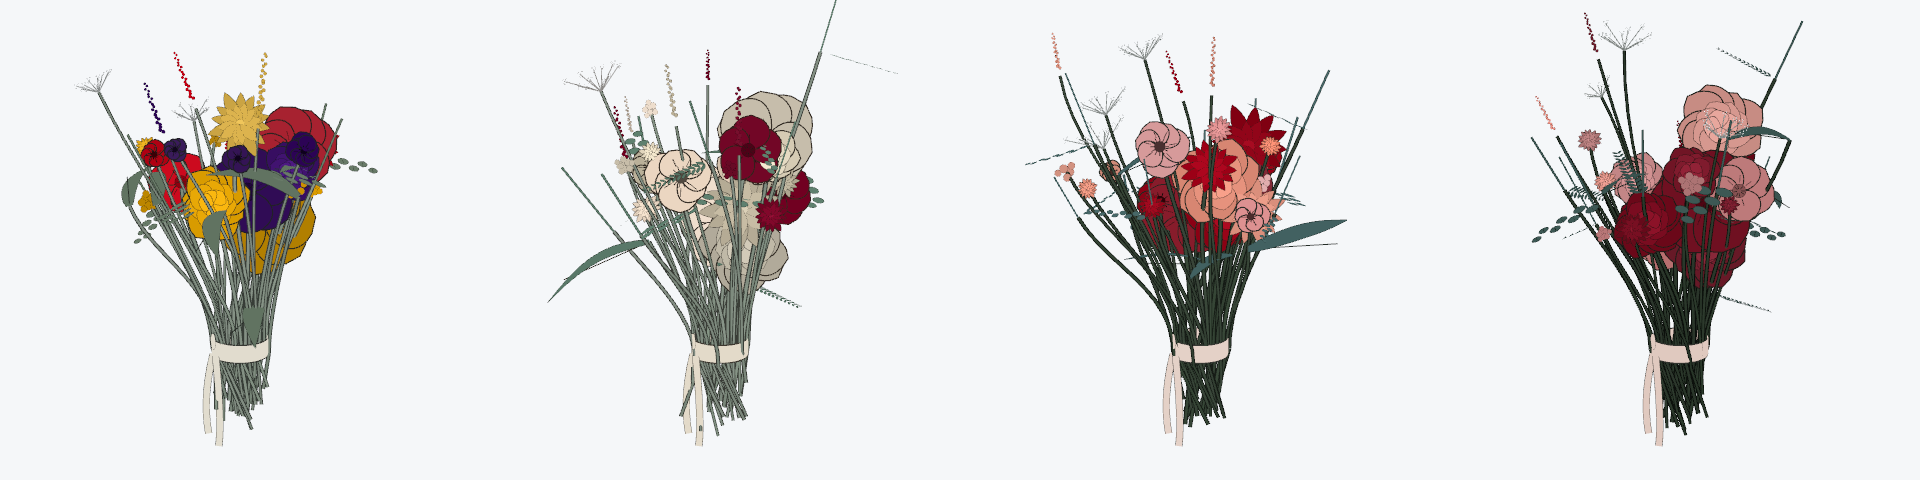
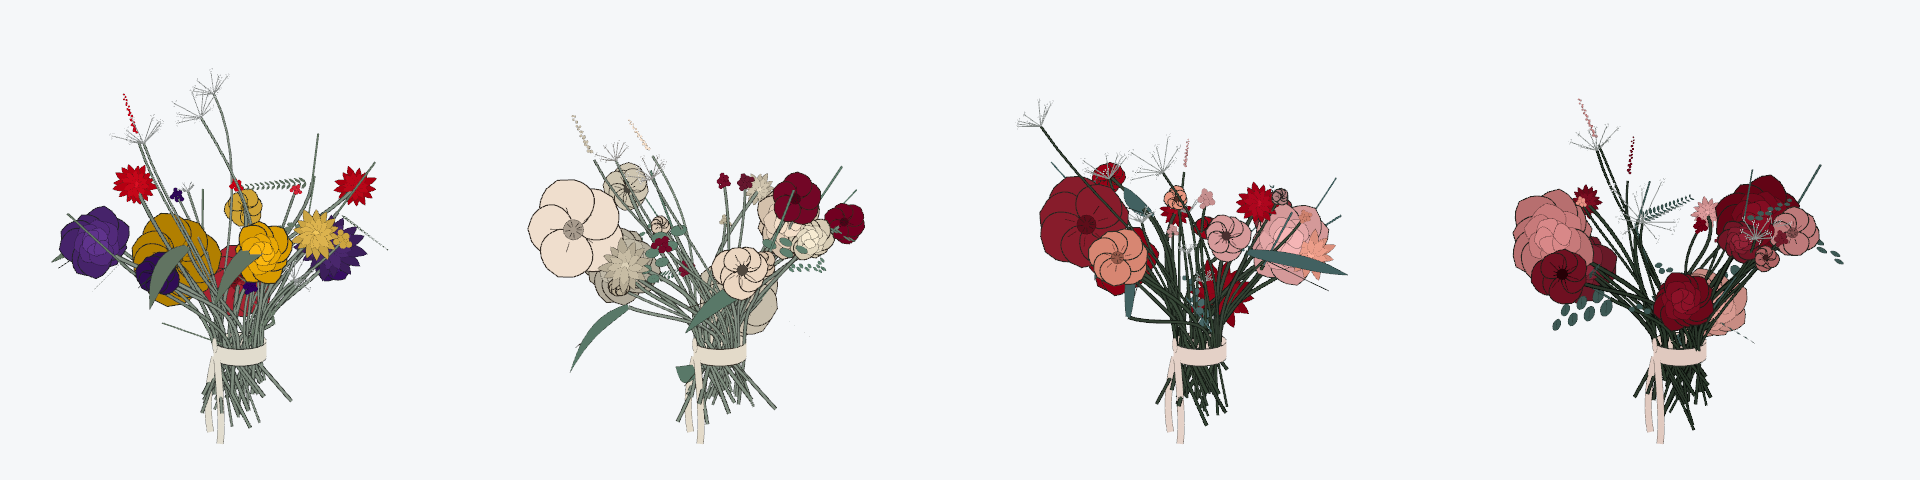
feat: arrange the bouquet instead of scattering it
Dominant blooms no longer fall out of an angle and a length. They are aimed at
explicit places in the bouquet, a loose asymmetric arc of lateral, height and
depth offsets scaled by stem length, so the shape is a decision rather than an
outcome. Every other role now aims at a target too: a radius, a height and a
depth band instead of a cone angle, which is what lets the silhouette widen
without the stems getting longer.

Filler became connective tissue. Instead of sitting on its own ring it is placed
between two major heads wherever they leave a hole, set back and slightly above,
so the gaps between the big shapes read as filled rather than empty.

Depth is three real layers: tall thin stems and small flowers behind, most
foliage and the medium blooms in the middle, dominant blooms and the large
leaves in front, with the separation nearly doubled.

Stems got shorter and there are far fewer tall ones, so most of them end inside
the mass. Foliage was leaving the tie almost horizontally, a large radius paired
with little height, and read as spikes crossing the frame; its arc now rises as
it spreads and it frames the blooms.

Colour and line treatment untouched.

diff --git a/Assets/Scripts/BouquetGeometry.cs b/Assets/Scripts/BouquetGeometry.cs
@@ -24,10 +24,10 @@ public static class BouquetGeometry
     {
         public float azimuthCentre;
         public float azimuthSpread;
-        public float tiltLow;
-        public float tiltHigh;
-        public float lengthLow;
-        public float lengthHigh;
+        public float radiusLow;
+        public float radiusHigh;
+        public float heightLow;
+        public float heightHigh;
         public float scaleLow;
         public float scaleHigh;
         public float depth;
@@ -36,42 +36,39 @@ public static class BouquetGeometry
         public int countHigh;
     }
 
+    // tips are aimed at a place in the bouquet rather than derived from an angle and
+    // a length, so the shape is a decision instead of an outcome
     private static readonly Band[] Bands =
     {
-        //                      az centre  spread  tilt lo/hi   length lo/hi  scale lo/hi   depth  count lo/hi
-        new Band { azimuthCentre =   0.0f, azimuthSpread = 150.0f, tiltLow = 0.26f, tiltHigh = 0.58f, lengthLow = 0.44f, lengthHigh = 0.62f, scaleLow = 1.25f, scaleHigh = 1.70f, depth =  0.10f, stemWidth = 1.00f, countLow = 3, countHigh = 6 },
-        new Band { azimuthCentre =   0.0f, azimuthSpread = 280.0f, tiltLow = 0.46f, tiltHigh = 0.86f, lengthLow = 0.52f, lengthHigh = 0.74f, scaleLow = 0.85f, scaleHigh = 1.22f, depth =  0.02f, stemWidth = 0.92f, countLow = 6, countHigh = 10 },
-        new Band { azimuthCentre =   0.0f, azimuthSpread = 360.0f, tiltLow = 0.60f, tiltHigh = 1.15f, lengthLow = 0.52f, lengthHigh = 0.84f, scaleLow = 0.34f, scaleHigh = 0.60f, depth = -0.06f, stemWidth = 0.68f, countLow = 6, countHigh = 14 },
-        new Band { azimuthCentre = 180.0f, azimuthSpread = 230.0f, tiltLow = 0.45f, tiltHigh = 0.95f, lengthLow = 0.92f, lengthHigh = 1.22f, scaleLow = 0.55f, scaleHigh = 0.88f, depth = -0.12f, stemWidth = 0.62f, countLow = 4, countHigh = 8 },
-        new Band { azimuthCentre = 180.0f, azimuthSpread = 360.0f, tiltLow = 0.80f, tiltHigh = 1.18f, lengthLow = 0.78f, lengthHigh = 1.12f, scaleLow = 0.80f, scaleHigh = 1.25f, depth = -0.08f, stemWidth = 0.82f, countLow = 7, countHigh = 14 },
-        new Band { azimuthCentre =   0.0f, azimuthSpread = 160.0f, tiltLow = 0.40f, tiltHigh = 0.80f, lengthLow = 0.44f, lengthHigh = 0.74f, scaleLow = 0.85f, scaleHigh = 1.20f, depth =  0.17f, stemWidth = 0.90f, countLow = 2, countHigh = 4 }
+        //                          az centre  spread   radius lo/hi   height lo/hi   scale lo/hi    depth  stem   count
+        new Band { azimuthCentre =   0.0f, azimuthSpread =   0.0f, radiusLow = 0.00f, radiusHigh = 0.00f, heightLow = 0.00f, heightHigh = 0.00f, scaleLow = 1.30f, scaleHigh = 1.75f, depth =  0.00f, stemWidth = 1.00f, countLow = 3, countHigh = 5 },
+        new Band { azimuthCentre =   0.0f, azimuthSpread = 300.0f, radiusLow = 0.30f, radiusHigh = 0.56f, heightLow = 0.34f, heightHigh = 0.62f, scaleLow = 0.72f, scaleHigh = 1.02f, depth = -0.02f, stemWidth = 0.88f, countLow = 5, countHigh = 8 },
+        new Band { azimuthCentre =   0.0f, azimuthSpread = 360.0f, radiusLow = 0.10f, radiusHigh = 0.40f, heightLow = 0.20f, heightHigh = 0.50f, scaleLow = 0.30f, scaleHigh = 0.50f, depth = -0.30f, stemWidth = 0.58f, countLow = 6, countHigh = 12 },
+        new Band { azimuthCentre = 180.0f, azimuthSpread = 190.0f, radiusLow = 0.26f, radiusHigh = 0.58f, heightLow = 0.72f, heightHigh = 1.06f, scaleLow = 0.52f, scaleHigh = 0.82f, depth = -0.46f, stemWidth = 0.52f, countLow = 3, countHigh = 5 },
+        new Band { azimuthCentre = 180.0f, azimuthSpread = 360.0f, radiusLow = 0.42f, radiusHigh = 0.70f, heightLow = 0.36f, heightHigh = 0.78f, scaleLow = 0.82f, scaleHigh = 1.20f, depth = -0.12f, stemWidth = 0.78f, countLow = 6, countHigh = 10 },
+        new Band { azimuthCentre =   0.0f, azimuthSpread = 170.0f, radiusLow = 0.26f, radiusHigh = 0.50f, heightLow = 0.16f, heightHigh = 0.42f, scaleLow = 1.00f, scaleHigh = 1.35f, depth =  0.34f, stemWidth = 0.86f, countLow = 2, countHigh = 4 }
     };
 
     private static readonly Species[] RoleSpecies =
     {
         Species.Rose, Species.OpenBloom, Species.Rose, Species.Dahlia,
         Species.OpenBloom, Species.Anemone, Species.Rose, Species.Dahlia,
-        Species.BerryCluster, Species.Anemone, Species.BerryCluster, Species.Dahlia,
+        Species.BerryCluster, Species.Anemone, Species.BerryCluster, Species.Gypsophila,
         Species.Lavender, Species.Gypsophila, Species.Lavender, Species.Gypsophila,
         Species.Eucalyptus, Species.Fern, Species.LongBlade, Species.LeafSprig,
-        Species.Eucalyptus, Species.LeafSprig, Species.LongBlade, Species.Fern
+        Species.LongBlade, Species.Eucalyptus, Species.LeafSprig, Species.LongBlade
     };
 
-    private struct Stage
+    // a loose asymmetric arc, not a ring. offsets are lateral, height, depth, scaled
+    // by stem length so the dial still moves the whole bouquet
+    private static readonly Vector3[] DominantTargets =
     {
-        public float azimuth;
-        public float length;
-        public float depth;
-    }
-
-    private static readonly Stage[] DominantStaging =
-    {
-        new Stage { azimuth = -40.0f, length = 0.90f, depth =  1.00f },
-        new Stage { azimuth =  46.0f, length = 1.12f, depth =  0.35f },
-        new Stage { azimuth = -12.0f, length = 1.28f, depth = -0.25f },
-        new Stage { azimuth =  92.0f, length = 0.84f, depth =  0.70f },
-        new Stage { azimuth = -80.0f, length = 1.02f, depth =  0.05f },
-        new Stage { azimuth =  16.0f, length = 1.20f, depth = -0.55f }
+        new Vector3(-0.34f, 0.28f,  0.20f),
+        new Vector3( 0.30f, 0.46f, -0.02f),
+        new Vector3( 0.06f, 0.14f,  0.26f),
+        new Vector3(-0.48f, 0.44f, -0.06f),
+        new Vector3( 0.52f, 0.22f,  0.08f),
+        new Vector3( 0.18f, 0.06f,  0.22f)
     };
 
     private struct Stalk
@@ -124,84 +121,137 @@ public static class BouquetGeometry
     private static List<Stalk> BuildPlan(BouquetSettings settings, BouquetPalette palette, Vector3 bind)
     {
         List<Stalk> plan = new List<Stalk>();
+        List<Vector3> bloomTips = new List<Vector3>();
         int index = 0;
 
         for (int role = 0; role < RoleCount; role++)
         {
+            if ((Role)role == Role.Filler)
+            {
+                continue;
+            }
+
             Band band = Bands[role];
             int count = Mathf.RoundToInt(Mathf.Lerp(band.countLow, band.countHigh, settings.density));
 
             for (int slot = 0; slot < count; slot++)
             {
-                plan.Add(BuildStalk(settings, palette, bind, (Role)role, band, slot, count, index));
+                Vector3 target = TargetFor(settings, (Role)role, band, slot, count, index);
+                Stalk stalk = MakeStalk(settings, palette, bind, index, (Role)role, band, target);
+                plan.Add(stalk);
+
+                if (BouquetFlora.IsBloom(stalk.species) && role <= (int)Role.Medium)
+                {
+                    bloomTips.Add(stalk.tip);
+                }
+
                 index++;
             }
         }
 
+        AddConnectors(plan, settings, palette, bind, bloomTips, ref index);
         return plan;
     }
 
-    private static Stalk BuildStalk(BouquetSettings settings, BouquetPalette palette, Vector3 bind,
-        Role role, Band band, int slot, int count, int index)
+    private static Vector3 TargetFor(BouquetSettings settings, Role role, Band band, int slot, int count, int index)
+    {
+        int seed = settings.seed;
+        float scale = settings.stemLength;
+
+        if (role == Role.Dominant)
+        {
+            Vector3 staged = DominantTargets[slot % DominantTargets.Length];
+            Vector3 jitter = new Vector3(
+                (BouquetFlora.Hash(index, 15, seed) - 0.5f) * 0.14f,
+                (BouquetFlora.Hash(index, 16, seed) - 0.5f) * 0.12f,
+                (BouquetFlora.Hash(index, 17, seed) - 0.5f) * 0.10f);
+            return (staged + jitter) * scale;
+        }
+
+        float across = (slot + 0.15f + 0.70f * BouquetFlora.Hash(index, 0, seed)) / count - 0.5f;
+        float azimuth = (band.azimuthCentre + band.azimuthSpread * across) * Mathf.Deg2Rad;
+
+        float bias = Mathf.Cos(azimuth - settings.asymmetryAngle * Mathf.Deg2Rad);
+        float flatten = 1.0f - settings.faceFlatten * Mathf.Cos(2.0f * azimuth);
+
+        float radius = Mathf.Lerp(band.radiusLow, band.radiusHigh, BouquetFlora.Hash(index, 1, seed))
+                     * flatten * (1.0f + settings.asymmetry * bias) * settings.spreadGain;
+        float height = Mathf.Lerp(band.heightLow, band.heightHigh, BouquetFlora.Hash(index, 4, seed));
+
+        return new Vector3(Mathf.Cos(azimuth) * radius, height, Mathf.Sin(azimuth) * radius) * scale
+             + Vector3.forward * band.depth * settings.depthSpread;
+    }
+
+    // filler is connective tissue: it goes where two major heads leave a hole, set
+    // back so it reads behind them, not scattered on its own ring
+    private static void AddConnectors(List<Stalk> plan, BouquetSettings settings, BouquetPalette palette,
+        Vector3 bind, List<Vector3> bloomTips, ref int index)
+    {
+        Band band = Bands[(int)Role.Filler];
+        int count = Mathf.RoundToInt(Mathf.Lerp(band.countLow, band.countHigh, settings.density));
+        if (bloomTips.Count < 2)
+        {
+            return;
+        }
+
+        for (int slot = 0; slot < count; slot++)
+        {
+            int a = Mathf.FloorToInt(BouquetFlora.Hash(index, 18, settings.seed) * (bloomTips.Count - 0.001f));
+            int b = (a + 1 + Mathf.FloorToInt(BouquetFlora.Hash(index, 19, settings.seed) * (bloomTips.Count - 1.001f))) % bloomTips.Count;
+
+            Vector3 gap = Vector3.Lerp(bloomTips[a], bloomTips[b], 0.35f + 0.30f * BouquetFlora.Hash(index, 23, settings.seed));
+            gap -= bind;
+            gap += new Vector3(
+                (BouquetFlora.Hash(index, 24, settings.seed) - 0.5f) * 0.16f,
+                (BouquetFlora.Hash(index, 25, settings.seed) - 0.5f) * 0.20f + 0.06f,
+                -0.10f - 0.18f * BouquetFlora.Hash(index, 26, settings.seed)) * settings.stemLength;
+
+            plan.Add(MakeStalk(settings, palette, bind, index, Role.Filler, band, gap));
+            index++;
+        }
+    }
+
+    private static Stalk MakeStalk(BouquetSettings settings, BouquetPalette palette, Vector3 bind,
+        int index, Role role, Band band, Vector3 target)
     {
         int seed = settings.seed;
 
-        // stratified inside the role's arc, then jittered: pure random clumps and
-        // an even step reads as a machine
-        float across = (slot + 0.15f + 0.70f * BouquetFlora.Hash(index, 0, seed)) / count - 0.5f;
-        float azimuth = band.azimuthCentre + band.azimuthSpread * across;
-
-        float stagedLength = 1.0f;
-        float stagedDepth = 0.0f;
-        if (role == Role.Dominant)
-        {
-            Stage stage = DominantStaging[slot % DominantStaging.Length];
-            azimuth = stage.azimuth + (BouquetFlora.Hash(index, 15, seed) - 0.5f) * 26.0f;
-            stagedLength = stage.length;
-            stagedDepth = stage.depth;
-        }
-
-        float azimuthRadians = azimuth * Mathf.Deg2Rad;
-
-        float bias = Mathf.Cos(azimuthRadians - settings.asymmetryAngle * Mathf.Deg2Rad);
-        float flatten = 1.0f - settings.faceFlatten * Mathf.Cos(2.0f * azimuthRadians);
-        float tiltFraction = Mathf.Lerp(band.tiltLow, band.tiltHigh, BouquetFlora.Hash(index, 1, seed));
-        float tilt = settings.coneHalfAngle * Mathf.Deg2Rad * tiltFraction * flatten * (1.0f + settings.asymmetry * bias);
-
         Species species = RoleSpecies[(int)role * 4 + Mathf.FloorToInt(BouquetFlora.Hash(index, 2, seed) * 3.999f)];
+        float headSize = settings.headScale * Mathf.Lerp(band.scaleLow, band.scaleHigh, BouquetFlora.Hash(index, 3, seed));
 
-        float scale = Mathf.Lerp(band.scaleLow, band.scaleHigh, BouquetFlora.Hash(index, 3, seed));
-        float headSize = settings.headScale * scale;
+        Vector3 targetTip = bind + target;
+        Vector3 heading = Vector3.Normalize(targetTip - bind);
 
-        float lengthRoll = BouquetFlora.Hash(index, 4, seed);
-        float kick = BouquetFlora.Hash(index, 5, seed) < 0.18f ? 1.20f : 1.0f;
-        float silhouette = settings.stemLength * Mathf.Lerp(band.lengthLow, band.lengthHigh, lengthRoll) * kick * stagedLength;
-        float reach = Mathf.Max(silhouette - BouquetFlora.TipReserve(species) * headSize, settings.stemLength * 0.22f);
+        // a sprig head keeps climbing past the stem, so the stem stops short of the
+        // place the silhouette is supposed to reach
+        Vector3 tip = targetTip - heading * BouquetFlora.TipReserve(species) * headSize;
 
-        Vector2 around = new Vector2(Mathf.Cos(azimuthRadians), Mathf.Sin(azimuthRadians));
-        Vector3 heading = new Vector3(around.x * Mathf.Sin(tilt), Mathf.Cos(tilt), around.y * Mathf.Sin(tilt));
+        Vector3 flat = new Vector3(target.x, 0.0f, target.z);
+        float radial = flat.magnitude;
+        float azimuth = Mathf.Atan2(target.z, target.x);
+        float rank = Mathf.Clamp01(radial / Mathf.Max(settings.stemLength * 0.7f, 1e-3f));
 
-        // stems leave the tie at different heights and are twisted round it, which
-        // is what a spiral bound bundle looks like instead of a generation point
-        float twist = settings.bundleTwist * Mathf.Deg2Rad * tiltFraction;
-        Vector2 anchorAround = new Vector2(Mathf.Cos(azimuthRadians + twist), Mathf.Sin(azimuthRadians + twist));
+        float twist = settings.bundleTwist * Mathf.Deg2Rad * rank;
+        Vector2 around = new Vector2(Mathf.Cos(azimuth + twist), Mathf.Sin(azimuth + twist));
         Vector3 anchor = bind
-            + new Vector3(anchorAround.x, 0.0f, anchorAround.y) * settings.ribbonWidth * (0.25f + 0.70f * tiltFraction)
+            + new Vector3(around.x, 0.0f, around.y) * settings.ribbonWidth * (0.25f + 0.70f * rank)
             + Vector3.up * (BouquetFlora.Hash(index, 6, seed) - 0.5f) * settings.tieHeight;
 
-        Vector3 tip = anchor + heading * reach;
-        tip += Vector3.forward * (band.depth + stagedDepth * 0.22f) * settings.depthSpread;
-        tip += Vector3.up * (BouquetFlora.Hash(index, 7, seed) - 0.5f) * reach * 0.10f;
+        Vector3 span = tip - anchor;
+        float reach = Mathf.Max(span.magnitude, 1e-3f);
+        Vector3 direction = span / reach;
 
-        Vector3 lateral = Vector3.Normalize(Vector3.Cross(heading, Vector3.up));
+        Vector3 lateral = Vector3.Cross(direction, Vector3.up);
+        lateral = lateral.sqrMagnitude > 1e-4f ? lateral.normalized : Vector3.right;
+
         float bend = (BouquetFlora.Hash(index, 8, seed) - 0.5f) * settings.sideBend;
-        float curve = settings.outwardCurve * (0.55f + 0.90f * BouquetFlora.Hash(index, 9, seed));
+        float curve = settings.outwardCurve * (0.50f + 1.00f * BouquetFlora.Hash(index, 9, seed));
 
-        Vector3 handleLow = anchor + Vector3.up * reach * curve * 0.45f;
-        Vector3 handleHigh = tip - heading * reach * 0.34f + lateral * bend * reach;
+        Vector3 handleLow = anchor + Vector3.up * reach * curve * 0.48f;
+        Vector3 handleHigh = tip - direction * reach * 0.34f + lateral * bend * reach;
 
         float cutLength = settings.cutLength * (0.5f + 0.5f * BouquetFlora.Hash(index, 10, seed));
-        Vector3 cutEnd = anchor + Vector3.Normalize(new Vector3(-heading.x, -1.05f, -heading.z)) * cutLength;
+        Vector3 cutEnd = anchor + Vector3.Normalize(new Vector3(-direction.x, -1.05f, -direction.z)) * cutLength;
 
         int bloomSlot = Mathf.FloorToInt(BouquetFlora.Hash(index, 11, seed) * 2.999f);
         Color bloom = palette.Vary(palette.Bloom(bloomSlot),

diff --git a/Assets/Scripts/BouquetSettings.cs b/Assets/Scripts/BouquetSettings.cs
@@ -5,8 +5,8 @@ using UnityEngine;
 public sealed class BouquetSettings
 {
     [Range(0.0f, 1.0f)] public float density = 0.55f;
-    [Range(5.0f, 70.0f)] public float coneHalfAngle = 34.0f;
-    [Range(0.2f, 1.6f)] public float stemLength = 1.00f;
+    [Range(0.4f, 2.2f)] public float spreadGain = 1.28f;
+    [Range(0.2f, 1.6f)] public float stemLength = 1.02f;
     [Range(0, 64)] public int seed = 7;
 
     [Header("Composition")]
@@ -14,8 +14,8 @@ public sealed class BouquetSettings
     [Range(0.0f, 360.0f)] public float asymmetryAngle = 118.0f;
     [Range(0.0f, 0.6f)] public float faceFlatten = 0.26f;
     [Range(0.0f, 1.2f)] public float outwardCurve = 0.62f;
-    [Range(0.0f, 0.5f)] public float sideBend = 0.22f;
-    [Range(0.0f, 0.5f)] public float depthSpread = 0.34f;
+    [Range(0.0f, 0.5f)] public float sideBend = 0.30f;
+    [Range(0.0f, 0.5f)] public float depthSpread = 0.46f;
     [Range(0.0f, 120.0f)] public float bundleTwist = 54.0f;
 
     [Header("Tie")]

diff --git a/Assets/Scripts/BouquetDials.cs b/Assets/Scripts/BouquetDials.cs
@@ -141,10 +141,10 @@ public static class BouquetDialSet
         // density drives every quota plus how much the layers separate, so the
         // silhouette stays put while the bouquet actually fills in
         builder.settings.density = dials[1].value;
-        builder.settings.depthSpread = Mathf.Lerp(0.14f, 0.30f, dials[1].value);
+        builder.settings.depthSpread = Mathf.Lerp(0.34f, 0.58f, dials[1].value);
         builder.settings.colourVariation = Mathf.Lerp(0.18f, 0.30f, dials[1].value);
 
-        builder.settings.coneHalfAngle = Mathf.Lerp(16.0f, 44.0f, dials[2].value);
+        builder.settings.spreadGain = Mathf.Lerp(0.80f, 1.75f, dials[2].value);
         builder.settings.stemLength = Mathf.Lerp(0.74f, 1.24f, dials[3].value);
     }
 }

diff --git a/Assets/Scripts/BouquetController.cs b/Assets/Scripts/BouquetController.cs
@@ -15,8 +15,8 @@ public sealed class BouquetController : MonoBehaviour
     public MeshFilter dialMesh;
     public MeshRenderer dialRenderer;
 
-    public Vector3 orbitTarget = new Vector3(0.0f, 0.0f, 0.0f);
-    public float orbitRadius = 3.25f;
+    public Vector3 orbitTarget = new Vector3(0.0f, 0.04f, 0.0f);
+    public float orbitRadius = 3.45f;
     public float yaw;
     public float pitch = 12.0f;
 
